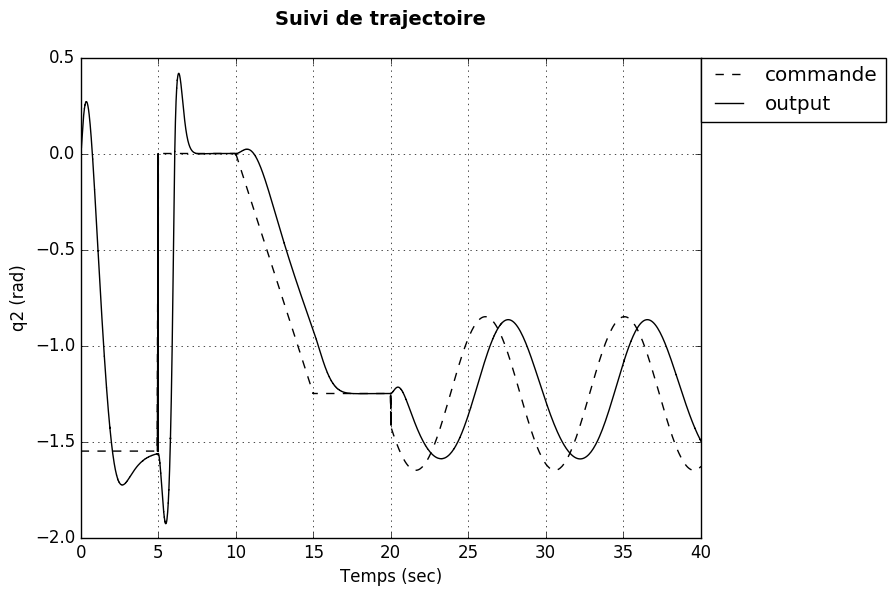
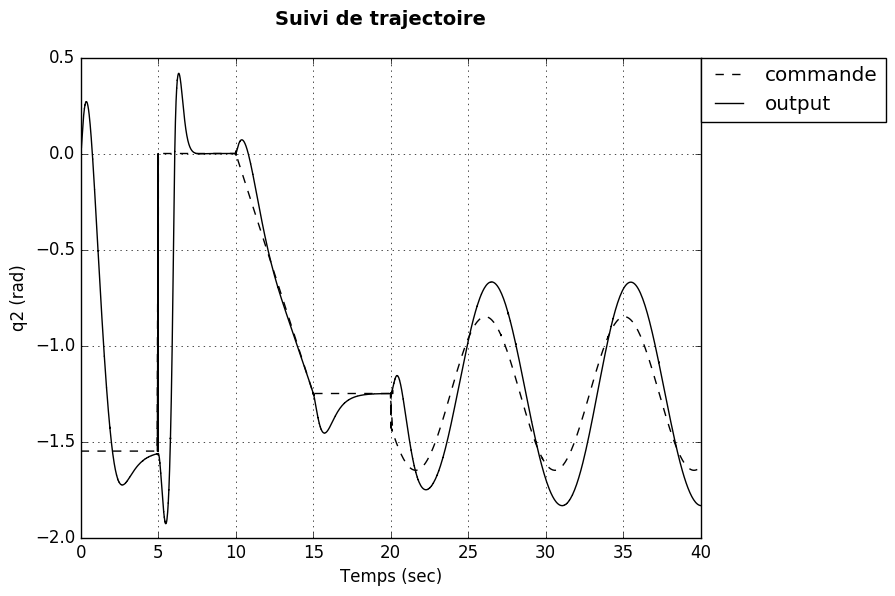
Ld

diff --git a/Code/Main_Tracking.py b/Code/Main_Tracking.py
@@ -148,22 +148,16 @@ def torque(state, t):
     c5 = m2 * lc2
 
     #dotqd2 = get_dotqd2(t)
-    dotqd2 = 0
-    #x = Symbol('x', real=True)
-    #v = solve(- c4 * math.sin(qd1) * x - c5 * math.sin(qd1 + qd2) * x, x)
-    #print(v)
-    dotqd1 = 0
-    #dotX = (m1 / (m1 + m2)) * (- dotqd1 * lc1 * sp.sin(qd1)) + \
-    #       (m2 / (m1 + m2)) * (- dotqd1 * l1 * sp.sin(qd1) - (dotqd1 + dotqd2) * lc2 * np.sin(qd1 + qd2))
-
-    '''
     dotqd1 = Symbol('dotqd1', real=True)
     dotqd2 = get_dotqd2(t)
 
-    x = solve( - c4 * sin(qd1) * dotqd1 - c5 * sin(qd1+qd2) * dotqd1 , dotqd1)
-    print(x)
+    dotX = (m1 / (m1 + m2)) * (- dotqd1 * lc1 * sp.sin(qd1)) + \
+           (m2 / (m1 + m2)) * (- dotqd1 * l1 * sp.sin(qd1) - (dotqd1 + dotqd2) * lc2 * np.sin(qd1 + qd2))
+
+
+    x = solve( dotX , dotqd1)
+    print("t", t, "dotqd1", x)
     dotqd1 = float(x[0])
-    '''
     Ld = (c1 + c2 + 2 * c3 * cos(qd2)) * dotqd1 + (c2 + c3 * cos(qd2)) * dotqd2
 
     dL = - g * (m1 * x1 + m2 * x2)
